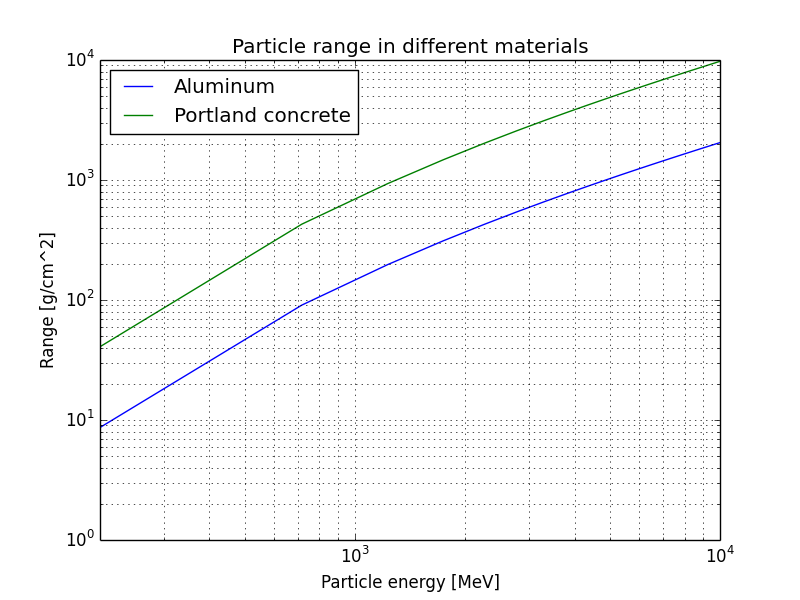
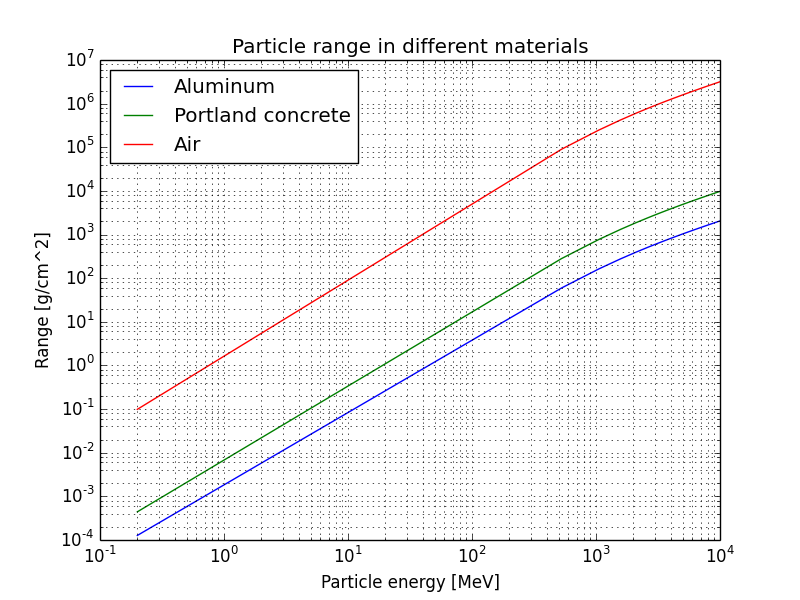
Added air

diff --git a/Oblig1/bethe.py b/Oblig1/bethe.py
@@ -108,28 +108,43 @@ def InverseStoppingPower(Energy, rho, I, A, Z):
 	S_inv = S**(-1)
 	return S_inv
 
-N=1000
+# Parameters for air:
+rho_air = 1.205e-3
+I_air = 85.7e-6
+Z_air = (6.+7.+8.+18.)/4.
+A_air = (0.000124*12.011 + 0.755267*14.007 + 0.231781*15.999 + 0.012827*39.948)
+
+#print Z_air, A_air
+
+N=10000
 Range_Al = np.zeros(20)
 Range_con = np.zeros(20)
+Range_air = np.zeros(20)
 for k in range(20):
-	Eincoming=np.linspace(0.2e3,10e3,20)
-	E = np.linspace(0.1e3,Eincoming[k], N)
+	Eincoming=np.linspace(0.2,10e3,20)
+	E = np.linspace(0.1,Eincoming[k], N)
 	InverseSP_Al = np.zeros(len(E))
 	InverseSP_con = np.zeros(len(E))
+	InverseSP_air = np.zeros(len(E))
 	for i in range(N):
 		InverseSP_Al[i] = InverseStoppingPower(E[i], rho_Al, I_Al, A_Al, Z_Al)
 		InverseSP_con[i] = InverseStoppingPower(E[i], rho_con, I_con, A_con, Z_con)
-
+		InverseSP_air[i] = InverseStoppingPower(E[i], rho_air, I_air, A_air, Z_air)
 	Range_Al[k] = simps(InverseSP_Al, E)
 	Range_con[k] = simps(InverseSP_con, E)
-	#print(Range[k])
+	Range_air[k] = simps(InverseSP_air, E)
+
 plt.loglog(Eincoming, Range_Al)
 plt.loglog(Eincoming, Range_con)
+plt.loglog(Eincoming, Range_air)
 plt.xlabel('Particle energy [MeV]')
 plt.ylabel('Range [g/cm^2]')
-plt.legend(['Aluminum', 'Portland concrete'], loc=2)
+plt.legend(['Aluminum', 'Portland concrete', 'Air'], loc=2)
 plt.title('Particle range in different materials')
 plt.grid(True, which="both")
 plt.show()
+
+
+#plt.show()
 
 
